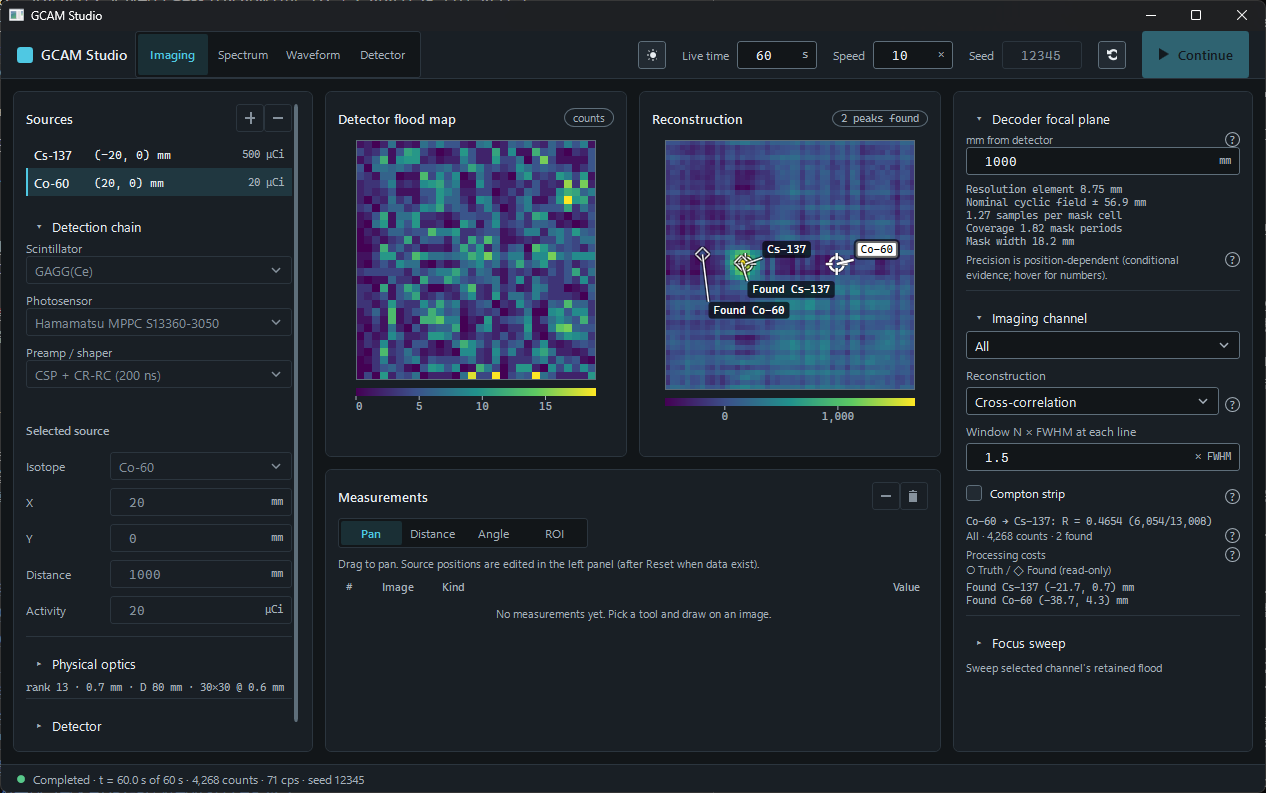
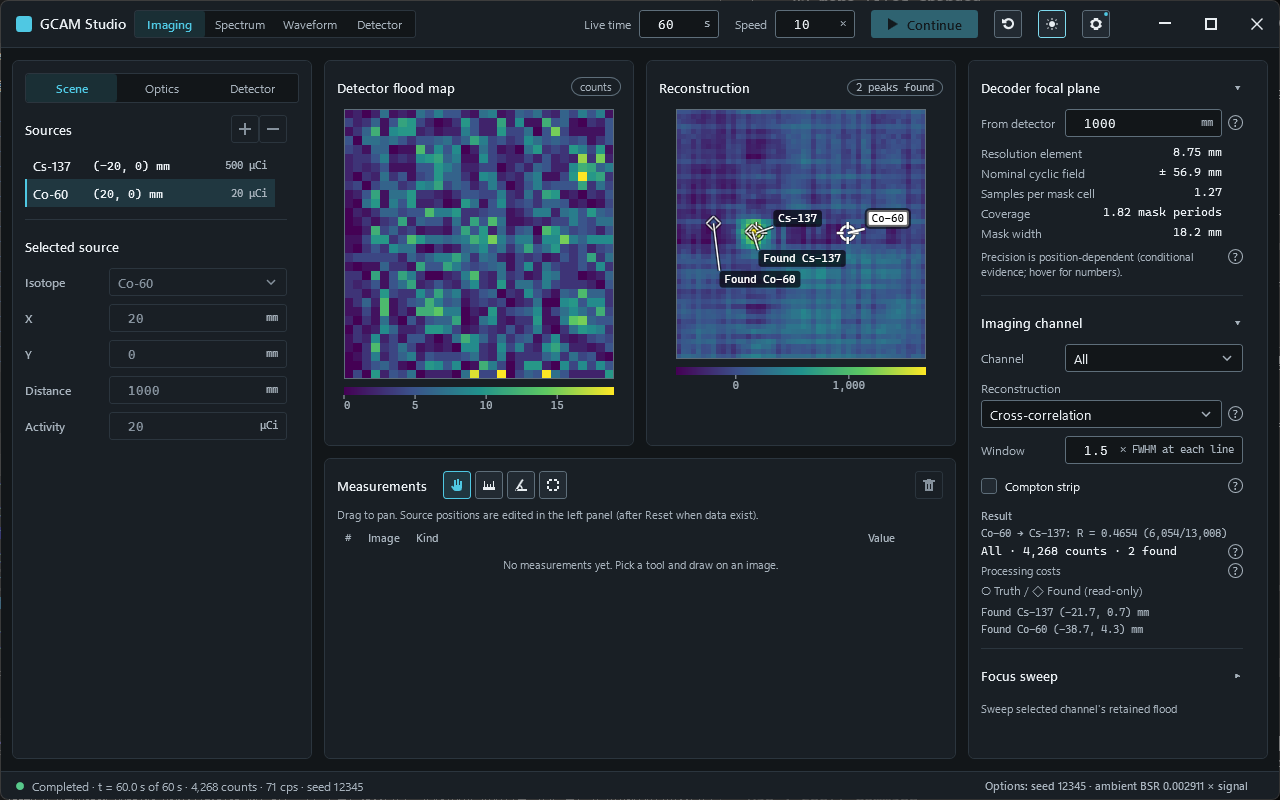
Docs: desktop verification of declutter stage 2 and TODO-42 — AN-17, polish survey refreshed
- History: full desktop suite 28 / 29 then the fixed scenarios and their broken-verdict / recovery pairs pass;
  the no-title-bar scenario and the re-pilot pass; Alt keys and Options Enter remain headless-only.
- VV.Studio: AN-17 (modal focus boundary), superseded pending notes; SR-RUN-13 refusal wording follows
  TODO-42; DESIGN.Controls modal-layer focus rule; AGENTS.UiAutomation re-measure / re-pilot done.
- Polish survey PNGs refreshed by the desktop run; CLAUDE.md pending-desktop list updated.

diff --git a/docs/VV.Studio.md b/docs/VV.Studio.md
@@ -130,6 +130,12 @@ build 0 warnings, normal suite **1,013 passed / 48 skipped** (three new cases), 
 193 units with current discovery. Desktop not run: real Alt-key routing and Enter in the Options dialog on the window
 wait for the stage-2 desktop run.
 
+**Desktop verification (2026-10-13, `ed1298b`).** The stage-2 desktop run and TODO-42's scenarios: 28 of 29 desktop
+scenarios passed, including the no-title-bar scenario and the pilot; the one failure exposed a product defect in the modal
+focus boundary (AN-17), fixed and re-run with broken-verdict / recovery pairs
+([History](VV.Studio.History.md#desktop-verification--declutter-stage-2-and-todo-42-2026-10-13)). The "Desktop pending" note
+above is superseded; real Alt-key routing and Enter in the Options dialog remain headless-only.
+
 ## 1. Scope and intended use
 
 **Intended use.** GCAM Studio is a portfolio demo viewer for Gcam, a Monte Carlo simulator of a coded-aperture
@@ -530,7 +536,7 @@ they are skipped and reported as skipped, not passed. Each scenario starts its o
 | `ScenarioTests.MoveSource_ResetEditStart_PutsPeakOnTheSource` | VAL-04, VAL-05 · SR-RUN-12, SR-RUN-26, SR-VIEW-08 | physics: after Reset, an X / Y edit and a new acquisition the decoded peak must sit on the moved source (≤ 1.5 mm) | pass 2026-10-02: peak (21.6, 17.1), source (21.4, 16.0) mm; existing 1.5 mm tolerance |
 | `ScenarioTests.Readout_AndOneCellRoi_MatchAbsolutePositionAndValue` | SR-VIEW-05, SR-VIEW-07, SR-MEAS-03 | absolute mm of two cells (both signs); a one-cell ROI must sum to the readout's value | (−6.3, 5.1) and (6.3, −4.5) mm exact; sum = cell value |
 | `ScenarioTests.ThemeToggle_RelabelsAndSwitchesBack` | SR-THEME-01 | the label names the other theme; the app still simulates after two swaps | pass (the visual swap stays manual) |
-| `ChromeScenarioTests.BorderlessCaption_HasNoNativeTitleBar_AndStartsAtWindowTop` | SR-THEME-02, SR-RUN-12 | no UIA `TitleBar` element in the window; top bar and Close within 1 px of the window's top and right edges; the Options summary follows an applied seed and ignores a cancelled one; Maximize fills the monitor work area (Win32 monitor info), Restore returns | written 2026-10-13, not yet run — pending the stage-2 desktop run |
+| `ChromeScenarioTests.BorderlessCaption_HasNoNativeTitleBar_AndStartsAtWindowTop` | SR-THEME-02, SR-RUN-12 | no UIA `TitleBar` element in the window; top bar and Close within 1 px of the window's top and right edges; the Options summary follows an applied seed and ignores a cancelled one; Maximize fills the monitor work area (Win32 monitor info), Restore returns | desktop pass 2026-10-13 ([History](VV.Studio.History.md#desktop-verification--declutter-stage-2-and-todo-42-2026-10-13)) |
 
 Record (list-mode acquisition, 2026-10-01): all 19 UI tests passed (10 oracle, 7 desktop scenarios, the plot gate,
 the polish survey); with every scenario's expectation deliberately corrupted (`GCAM_UI_BREAK_VERDICT=1`) all 7
@@ -559,6 +565,7 @@ folder was left behind. UIA Select on the workspace switch does not change the w
 | AN-14 | `TickFormatterTests` (colour-bar tick labels: one shared multiplier, one decimal count, no negative zero) test behaviour that no SRS row states | the behaviour is verified but not required, so a change to it would not be traced | add an `SR-VIEW` row for colour-bar labels |
 | AN-15 | The opt-in offscreen render test (then the single `PlotViewRenderTests.Spectrum_BothThemesFullAndZoom_RenderWithoutWindow`; since the 2026-10-13 split the emission-table check runs in `MainWindow_Workspaces_*`, `MainWindow_MixedField_*` and `MainWindow_FocalPlaneAndMlem_*`) fails on one machine (2026-10-04) in its emission-table check ("Truncated table value: Window (keV)") before it reaches the later renders; it fails the same way at a commit before the ambient default and fixed axis, so it predates them (likely a font or display difference on that machine — not established) | on that machine the repository test does not complete SR-SPEC-05's table check or produce the renders after it; the ambient-panel PNGs (SR-RUN-29) came from a scratch copy that logged that assertion instead | find why the window column truncates there, then re-run the opt-in render test unchanged |
 | AN-16 | Closed (2026-10-13): SR-A11Y-03 named tool access keys (Alt+P / D / A / R) and "Enter runs (default button)" after the access keys were lost with the icon toggles and Start had stopped being the default button (SR-RUN-13) | the access keys are restored as window key bindings (tooltips name them, the toggles expose them as their accessible access key) and SR-A11Y-03 states the shipped Enter behaviour | key routing on the real window is verified with the next desktop run |
+| AN-17 | Closed (2026-10-13): the desktop run found that the modal focus boundary walked only the visual tree and refused the focus an opening combo gives its drop-down item (a popup root has no visual parent), so the Options dialog's combos (ambient bound, detection chain) could not be chosen through their drop-down and a UI scenario failed ("No FrontOnlyThroughMask in Acquisition.AmbientBound") | Options inputs set through a combo were unusable | `ModalHost` follows the logical parent and popup placement target; `ModalFocusRenderTests` checks it windowlessly (fails on the old boundary); `Choose` requires an open drop-down; desktop re-run passes |
 
 No screen-reader (Narrator / NVDA) session has been run. Not verified.
 

diff --git a/docs/VV.Studio.SRS.md b/docs/VV.Studio.SRS.md
@@ -93,7 +93,7 @@ Structured after IEC 62304 §5.2 (software requirements analysis). As in [VV.Stu
 | SR-RUN-10 | Stop cooperatively ends the current acquisition segment, retains all acquired data, measurements and the session, and sets Stopped; physical inputs stay locked (SR-RUN-12). |
 | SR-RUN-11 | Progress equals acquired live time / current preset live time, never decreases within a segment and reaches 1 at Completed; raising the preset (SR-RUN-24) lowers it accordingly. |
 | SR-RUN-12 | Physical run inputs — sources (add / remove, isotope, X, Y, distance, activity), optics, readout mode, reflector gap, gain σ / seed, background ratio, ambient dose rate and bound, detection chain and the Monte Carlo seed — are editable only in Empty or after a failure without data, and not while a readout preparation runs. Any other change is refused by the view model, not only disabled in the view. While Acquiring, live time and speed are locked too. Sources, optics and the readout are edited in the left panel; the seed (Acquisition tab), the detection chain, the entrance / backing facts, reflector gap and gain σ / seed (Detector tab), photon H*(10), ambient bound and background ratio (Environment tab) in the **Options dialog**, an in-window modal layer opened from the top-bar cog. The dialog edits a session-only draft (never persisted): OK validates every field with the live inputs' rules and messages, and on any invalid field keeps the dialog open on that field's tab and writes nothing; Cancel or Escape discards the draft; no button is the default, so Enter in a field neither applies nor discards it. While the inputs are locked the dialog shows the values read-only with "Acquired settings · locked until Reset" and one Close button. Every Options value that differs from the Studio defaults (one Core record) is listed in the status bar's Options summary — with data followed by the acquired ambient BSR — and marked by a badge on the cog, so no hidden setting changes a result unseen. |
-| SR-RUN-13 | Without acquired data, Start is enabled when at least one source exists or the ambient field is non-zero (a source-free, background-only acquisition; refused with the physical readout, SR-RUN-34). With data the button reads Continue and is enabled only in Stopped or Completed when the preset exceeds the acquired live time. The command re-checks its condition when invoked; it is not the window's default button. A Start refused by validation states its reason in the status bar in the warning colour — "Start refused: <reason>", or "Options: <reason>" for an Options input (seed, ambient dose, reflector gap, or a non-zero ambient / BSR field with the physical readout) — until the next started acquisition or Reset, keeps the field messages where they are, and leads to the input: it selects the left tab holding it (Optics for optics and reflector-gap errors, Scene for scene errors, Detector for readout refusals) or opens the Imaging focal-plane section for a decoder-focus error, and an Options refusal puts a warning state on the cog until the input is corrected; the dialog opens only on the user's click. |
+| SR-RUN-13 | Without acquired data, Start is enabled when at least one source exists or the ambient field is non-zero (a source-free, background-only acquisition; refused with the physical readout, SR-RUN-34). With data the button reads Continue and is enabled only in Stopped or Completed when the preset exceeds the acquired live time. The command re-checks its condition when invoked; it is not the window's default button. A Start refused by validation states its reason in the status bar in the warning colour — "Start refused: <reason>", or "Options: <reason>" for an Options input (seed, ambient dose or reflector gap; a field-only scene with the physical readout is a Start refusal, SR-RUN-34) — until the next started acquisition or Reset, keeps the field messages where they are, and leads to the input: it selects the left tab holding it (Optics for optics and reflector-gap errors, Scene for scene errors, Detector for readout refusals) or opens the Imaging focal-plane section for a decoder-focus error, and an Options refusal puts a warning state on the cog until the input is corrected; the dialog opens only on the user's click. |
 | SR-RUN-14 | *Withdrawn* — outdated / stale result marking; replaced by SR-RUN-12, SR-RUN-23, SR-RUN-26. |
 | SR-RUN-15 | The scene config uses nearest-prime rank, non-cyclic decoding and a reconstruction grid inside the FCFOV; non-finite or non-positive preset live time and speed are rejected by the service. |
 | SR-RUN-16 | Immutable cumulative snapshots carry live time, integer counts, flood, reconstruction, estimate and the same fresh event list (pixel, true deposit in keV, Poisson arrival time in s); each event is used once. The flood adds one count at each ComptonCrystalDetector event’s Argmax pixel, so in-crystal Compton scatter mispositioning is part of the image. A decay of an isotope with correlated gammas (Co-60 with its 1173 / 1332 keV angular correlation, Na-22 with its back-to-back annihilation pair) is one event: the deposits of all its detected gammas summed, at the largest-deposit pixel over their merged interaction sites, with one arrival time (true-coincidence summing). |

diff --git a/docs/DESIGN.Controls.md b/docs/DESIGN.Controls.md
@@ -64,7 +64,7 @@ workspace right panels and the Options dialog use the same language.
 | Panel / Divider / Chip | `Panel.Surface` / `Divider` / `Chip`, `Chip.Warning` | `Border` styles for layout blocks; the warning chip pairs with `Text.CaptionWarning` |
 | Header row | `PanelHeader` (DockPanel) | title left, actions / chips right; min height `Size.Control`, `Gap.Title` below |
 | Icon | `Icon.Play`, `Icon.Stop`, `Icon.Reset`, `Icon.Add`, `Icon.Remove`, `Icon.Cancel`, `Icon.Clear` (trash can), `Icon.Sun`, `Icon.Moon`, `Icon.Settings` (cog), `Icon.Pan`, `Icon.Ruler`, `Icon.Angle`, `Icon.Roi`, `Icon.Minimize`, `Icon.Maximize`, `Icon.Restore`, `Icon.Close`, … (Geometry, 12 × 12) | drawn with a `Path` in the button's foreground — no glyph characters as icons |
-| Modal layer | `ModalHost` / `ModalLayer` | an in-window layer over the whole window (one HWND and UIA tree): themed scrim `Brush.Modal.Scrim`, underlying content disabled, keyboard navigation cycles inside, focus restored on close, Escape = the host's cancel command; content arrives as a view model with a DataTemplate; AutomationId `Modal.Layer`, Name from the hosted content (`DialogName`). Used by the Reset confirmation (TODO-44) and the Options dialog (TODO-45: `Size.Options` high on every tab, a reserved lock-caption line, tabs as a segmented picker, Cancel and OK, or one Close while the inputs are locked; no default button — the author, 2026-10-13: Enter in a field must neither apply nor discard a draft; Escape cancels) |
+| Modal layer | `ModalHost` / `ModalLayer` | an in-window layer over the whole window (one HWND and UIA tree): themed scrim `Brush.Modal.Scrim`, underlying content disabled, keyboard navigation cycles inside — the focus boundary counts an element as inside when its visual, logical or popup placement-target ancestry reaches the layer, so a dialog control's popup (a combo's drop-down, a help mark's tooltip) keeps focus, while focus elsewhere is pulled back — focus restored on close, Escape = the host's cancel command; content arrives as a view model with a DataTemplate; AutomationId `Modal.Layer`, Name from the hosted content (`DialogName`). Used by the Reset confirmation (TODO-44) and the Options dialog (TODO-45: `Size.Options` high on every tab, a reserved lock-caption line, tabs as a segmented picker, Cancel and OK, or one Close while the inputs are locked; no default button — the author, 2026-10-13: Enter in a field must neither apply nor discard a draft; Escape cancels) |
 
 Add a shared style only when two or more views need it; otherwise keep it in the view's `Resources`, still
 built from tokens.

diff --git a/docs/VV.Studio.History.md b/docs/VV.Studio.History.md
@@ -327,3 +327,17 @@ exact-hash fixtures pass. Evidence families readout-field-v1 (ambient) and reado
 pass and were re-run identically (Findings 70). Pending (desktop unavailable): the desktop scenarios
 `PhysicalBsrAndAmbient_ContinuationConservesMeasuredCounts` and `RefusedLineAndMissingPreparation_ExplainWithoutZeroing`
 with broken-verdict / recovery.
+
+## Desktop verification — declutter stage 2 and TODO-42, 2026-10-13
+
+Main tree at `ed1298b` (Release). Full desktop suite with `GCAM_UI_TESTS=1` (the long High-res cold test excluded): 28 of 29
+desktop scenarios passed, including `ChromeScenarioTests.BorderlessCaption_HasNoNativeTitleBar_AndStartsAtWindowTop` (no
+native title bar in the real window), the pilot (caption geometry), every scenario that now goes through the Options
+dialog, the readout scenarios and the polish survey (16 PNGs refreshed in `docs/assets/studio-polish-survey/`). Failures:
+`PhysicalBsrAndAmbient_ContinuationConservesMeasuredCounts` (never run before) could not choose the ambient bound in the
+Options dialog — a product defect in the modal focus boundary (VV.Studio AN-17), fixed with `ModalFocusRenderTests`; and
+`RefusedLineAndMissingPreparation_ExplainWithoutZeroing` failed once on a harness race (the layer looked up before it
+existed), fixed by waiting for the layer. Broken-verdict runs of the five changed scenarios failed on their verdicts;
+after the fixes the re-run (both scenarios plus four regression scenarios for the stricter `Choose`) passed, its
+broken-verdict pair failed on the verdict and the recovery passed. Not covered by a scenario: real Alt-key routing for
+the tool toggles and Enter inside the Options dialog (headless tests only).

diff --git a/CLAUDE.md b/CLAUDE.md
@@ -73,11 +73,8 @@ copy it here, it goes stale. Only what the Todo does not hold:
 - Waiting for a free desktop (author's go): the desktop UI scenarios after TODO-30's Studio default and fixed spectrum
   axis (list in `samples/evidence/results/ambient-baseline-v1-turn10.md`), and the README desktop screenshot that still
   shows the old preset label "(original rig)" (TODO-29). PR-SENS-02's count gate is settled (measured gate, EV-34).
-  Also the stage-2 desktop run of TODO-44 / 45 (closed 2026-10-13 without it): the whole desktop suite, broken-verdict /
-  recovery for the changed assertions, and the UI-automation re-measure and re-pilot including the no-title-bar
-  assertion (`docs/VV.Studio.History.md`, "Declutter stage 2 …"); the README screenshot is retaken after it.
-  And TODO-42's two physical-readout scenarios (`PhysicalBsrAndAmbient_ContinuationConservesMeasuredCounts`,
-  `RefusedLineAndMissingPreparation_ExplainWithoutZeroing`) with broken-verdict / recovery.
+  The TODO-44 / 45 stage-2 suite and TODO-42's scenarios passed on 2026-10-13 (`docs/VV.Studio.History.md`); still
+  open: the README screenshot retake, and a hands-on check of the tool Alt keys and Enter in the Options dialog.
 - TODO-25 (depth likelihood) closed 2026-10-08 after a current-tree screening (Findings 62); its gate validation (≈ 190 h,
   resumable per condition) is parked in the Backlog; probe, recipes and summary in `samples/evidence/depthlik/`.
 - Codex conversations, worktrees (`C:\gw\…`) and probe outputs (`%TEMP%\gcam-*`) are machine-local: start new

diff --git a/docs/AGENTS.UiAutomation.md b/docs/AGENTS.UiAutomation.md
@@ -109,9 +109,9 @@ window's top edge, so every position comes from the target element's UIA bounds,
 a title-bar offset. `ChromeScenarioTests.BorderlessCaption_HasNoNativeTitleBar_AndStartsAtWindowTop` asserts that no
 `TitleBar` element exists, that `Window.TopBar` and `Window.Close` sit within 1 px of the window's top and right
 edges, and that Maximize fills the monitor work area; the pilot checks that the caption buttons lie inside the owned
-frame and above the flood map. The stage-2 measurement and pilot are **pending**: the window geometry changed, so
-stage 2 (re-measure) and stage 3 (re-pilot, with a broken verdict and a recovery run) are redone on the next desktop
-run, on the author's go.
+frame and above the flood map. After the geometry change both were redone on 2026-10-13: the no-title-bar scenario and
+the pilot passed, and the pilot's broken-verdict / recovery pair behaved as intended (VV.Studio History, "Desktop
+verification — declutter stage 2 and TODO-42").
 
 ## 3. Pilot
 
